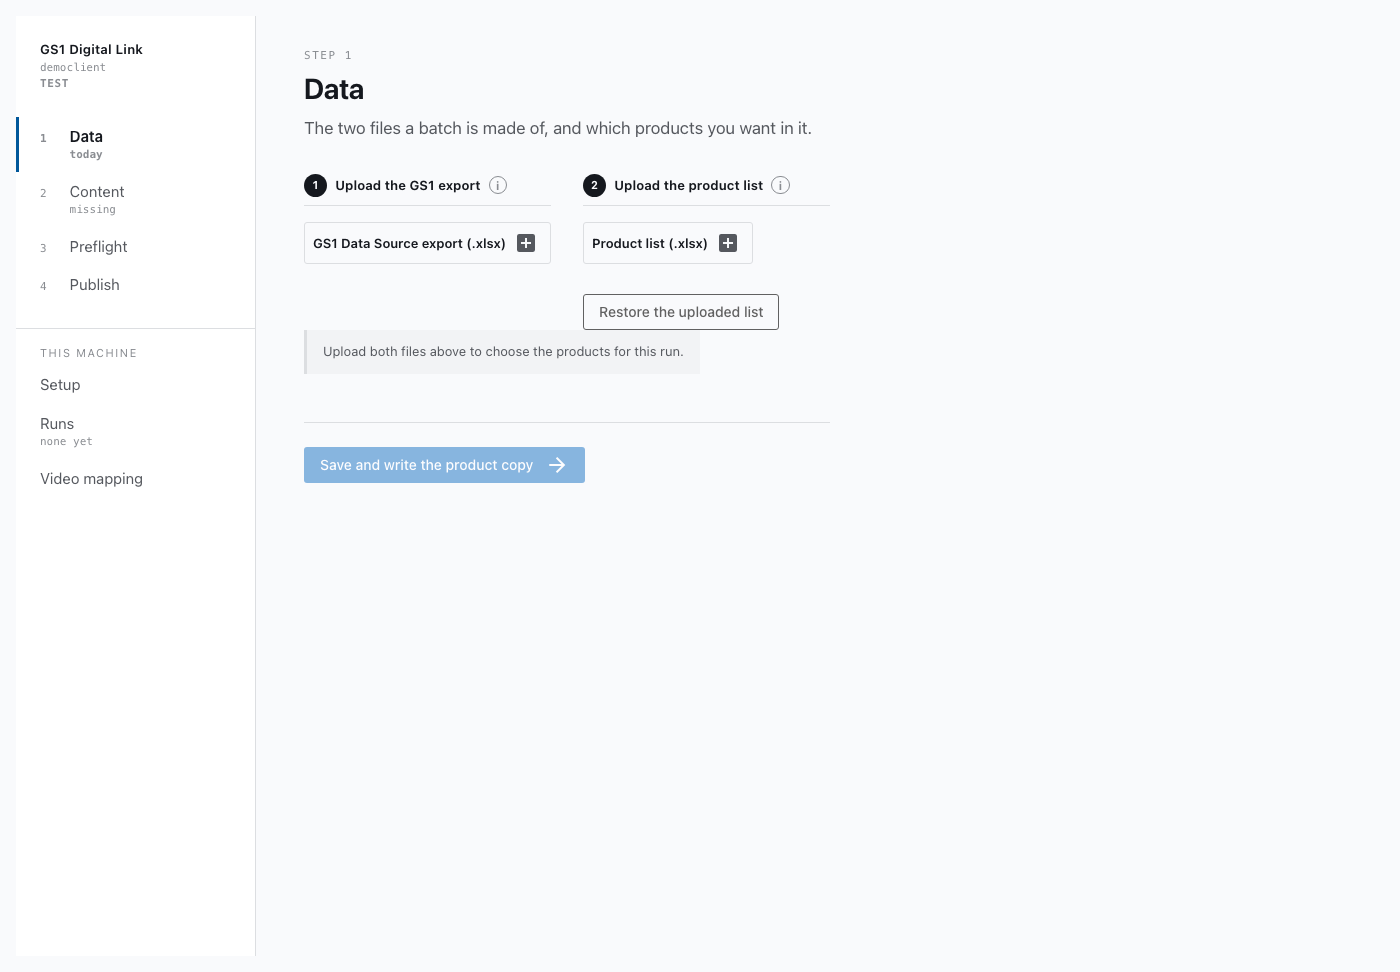
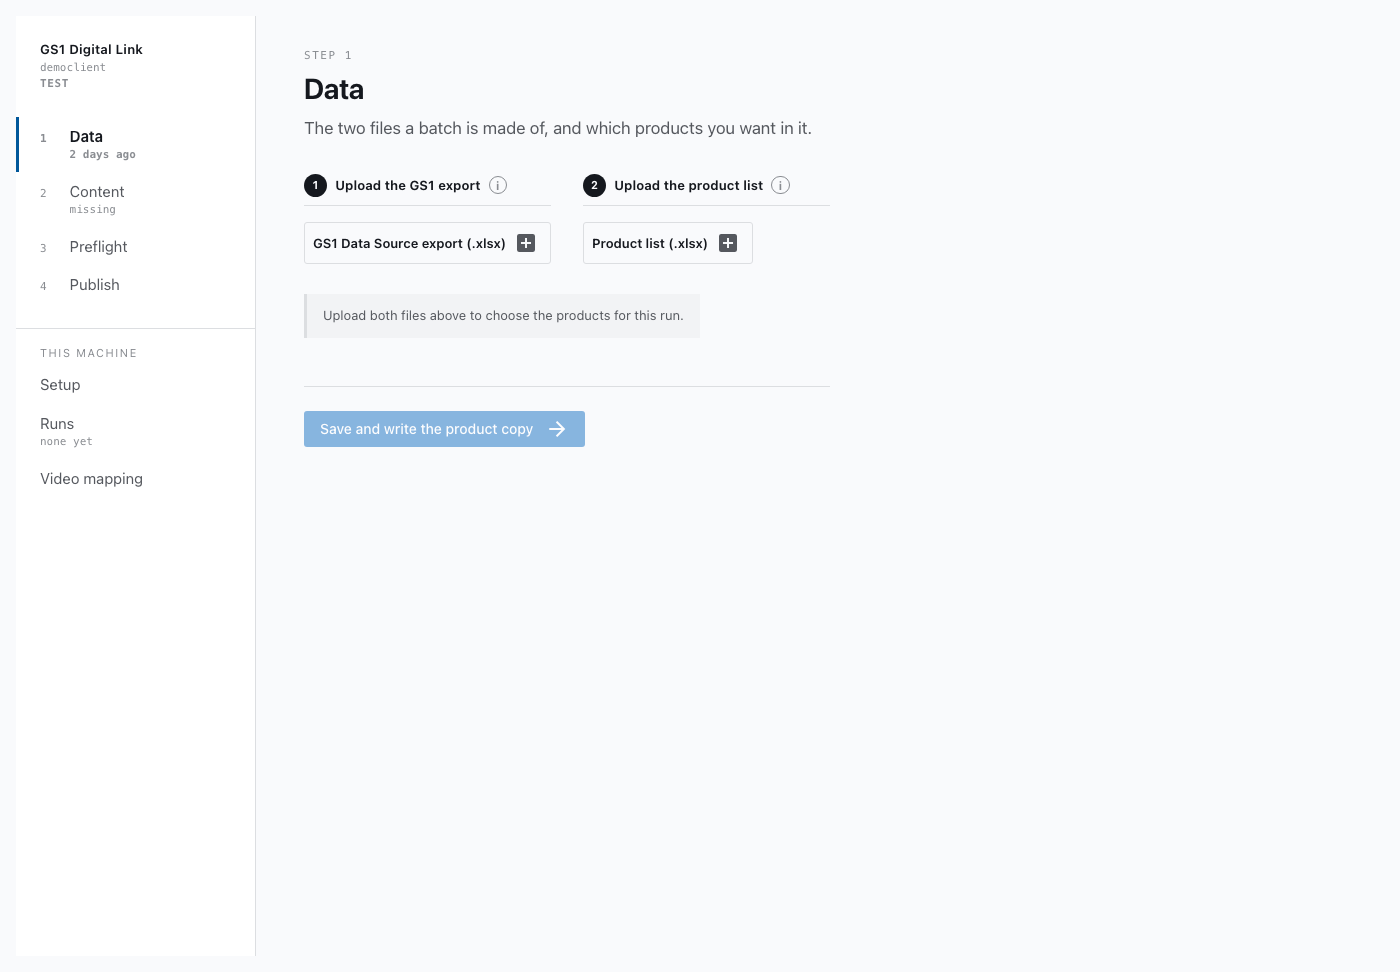
feat(data): remove Restore — uploading the list again is the undo
A batch already requires both uploads, so the way back from a bad selection is the
step the screen insists on anyway: upload the list again. A button that exists to
avoid a step nothing lets you skip is a second way to do one thing.

It also removes an asymmetry that would have grown into a trap. The list's Restore
went **towards** the upload — `process-list.source.xlsx` → the control file, undoing
edits the screen had made. An export "Restore" could only mean the opposite,
`products.bak.xlsx` → the current file, undoing the *upload itself*, because nothing
edits an export after it lands. Two buttons a few centimetres apart, both saying
Restore, pointing in opposite directions, is the one-word-two-meanings shape this
codebase has produced three times already. Now neither exists.

`process-list.source.xlsx` stays and its docstring says why: it is what
`scripts/report_scope_result.py` reads to name the rows the operator deselected,
which no other file records. It was never the thing deciding what gets written.

**Said plainly rather than buried:** the inverted tick box now carries two of its
four mitigations. The *Remove selected rows* wording is still deleted and the save
still reports the delta — "2 dropped". The red Save button went when Save became
the Next button, and the one-click way back goes here. What remains is that the
list the operator uploaded is still on their machine, minutes old, and re-uploading
resets every tick.
[…]

Changed region(s): [[0.215, 0.4012, 0.43, 0.4938], [0.215, 0.3086, 0.5529, 0.3704]]

diff --git a/tests/ui/test_process_list_edit.py b/tests/ui/test_process_list_edit.py
@@ -2,8 +2,8 @@
 
 The operator's recurring job, and the one step where the shell writes to a file they authored.
 The properties worth asserting are the ones that make that safe: other columns survive, the
-previous version survives, the file they *uploaded* survives every save after it, and an empty
-result is refused.
+previous version survives, the file they *uploaded* survives every save after it — the per-run
+result sheet reads it to name the rows they dropped — and an empty result is refused.
 """
 
 from __future__ import annotations
@@ -16,7 +16,7 @@ import pytest
 from lib.config import ProcessListConfig
 from lib.errors import ProcessListError
 from lib.process_list import load_process_list
-from ui.process_list_edit import archive, archive_path, read_sheet, restore, save_sheet
+from ui.process_list_edit import archive, archive_path, read_sheet, save_sheet
 
 GTIN_A = "8713195007359"
 GTIN_B = "8713195007360"
@@ -193,7 +193,11 @@ def test_a_header_below_row_one_reads_on_screen_too(tmp_path: Path) -> None:
 
 
 def test_the_archive_sits_beside_the_control_file_and_is_not_the_backup(tmp_path: Path) -> None:
-    """A collision would make Restore hand back the last pruned save, not the uploaded list."""
+    """A collision would leave the archive holding the last pruned save, not the uploaded list.
+
+    The result sheet reads the archive to name the rows the operator dropped, so a collision would
+    have it name the wrong ones — silently, and in a file that goes to the client.
+    """
     # Arrange
     control = tmp_path / "process-list.xlsx"
 
@@ -247,25 +251,6 @@ def test_an_upload_with_no_gtins_is_refused(tmp_path: Path) -> None:
     assert not control.exists()
 
 
-def test_restore_undoes_a_deselection(tmp_path: Path) -> None:
-    """The whole reason deselection is safe: the worst case is one click."""
-    # Arrange
-    source = _write(tmp_path / "upload", [["1079", GTIN_A, "keep"], ["1080", GTIN_B, "drop"]])
-    control = tmp_path / "input" / "process-list.xlsx"
-    archive(_config(control), source.read_bytes())
-    save_sheet(read_sheet(_config(control)).keeping({0}))
-    assert load_process_list(_config(control)) == frozenset({f"0{GTIN_A}"})
-
-    # Act
-    backup = restore(_config(control))
-
-    # Assert
-    assert load_process_list(_config(control)) == frozenset({f"0{GTIN_A}", f"0{GTIN_B}"})
-    assert read_sheet(_config(backup)).rows == [["1079", GTIN_A, "keep"]], (
-        "the prune is recoverable"
-    )
-
-
 def test_the_archive_survives_saves_that_overwrite_the_backup(tmp_path: Path) -> None:
     """``.bak`` holds the previous save, so after two saves the uploaded list is only here."""
     # Arrange
@@ -285,18 +270,9 @@ def test_the_archive_survives_saves_that_overwrite_the_backup(tmp_path: Path) ->
         ["1", GTIN_A, "a"],
         ["2", GTIN_B, "b"],
     ], "the backup is one save old"
-    restore(_config(control))
-    assert len(read_sheet(_config(control)).rows) == 3, "the upload is still all three"
-
-
-def test_restore_with_no_archive_raises(tmp_path: Path) -> None:
-    """Doing nothing under a success message is the failure mode this project designs against."""
-    # Arrange
-    control = _write(tmp_path, [["1079", GTIN_A, "Drain saver"]])
-
-    # Act / Assert
-    with pytest.raises(ProcessListError, match="no uploaded scope list to restore"):
-        restore(_config(control))
+    assert len(read_sheet(_config(archive_path(control))).rows) == 3, (
+        "the upload is still all three"
+    )
 
 
 # --- What the saved file is like to open --------------------------------------

diff --git a/ui/pages/data.py b/ui/pages/data.py
@@ -24,7 +24,7 @@ table, above the rest, with its own count.
 
 **A row is selected to keep it.** The previous version of this screen had the opposite verb — a
 tick meant *remove this* — so no control here may carry the old wording, the save reports the
-delta rather than the end state, and Restore puts the uploaded list back in one click.
+delta rather than the end state, and a mis-tick is undone by uploading the list again.
 """
 
 from __future__ import annotations
@@ -225,7 +225,8 @@ def _scope_list(cfg: Any, arrived: Callable[[str], None]) -> None:
             "meaning — the tool reads no other column and interprets no cell value — so you "
             "prepare a batch by ticking rows below, and your own columns are kept exactly as they "
             f"are. It is saved as {cfg.process_list.path}, and your upload is kept beside it as "
-            f"{process_list_edit.archive_path(control).name}, which is what Restore puts back. "
+            f"{process_list_edit.archive_path(control).name}, which is what the per-run result "
+            "sheet reads to name the rows you dropped. "
             "That path is fixed in clients.yml and has no command-line override, so a list saved "
             "anywhere else is invisible to the tool."
         ),
@@ -245,21 +246,6 @@ def _scope_list(cfg: Any, arrived: Callable[[str], None]) -> None:
             return f"Installed. Your upload is kept as {kept.name}."
 
         theme.upload("Product list (.xlsx)", receive, busy="Checking the list…")
-
-        def restore() -> None:
-            try:
-                backup = process_list_edit.restore(cfg.process_list)
-            except (OSError, ProcessListError) as exc:
-                theme.notify_problem(str(exc))
-                return
-            arrived("list")
-            theme.notify_ok(f"The uploaded list is back. The list you had is at {backup.name}")
-
-        # Beside the upload rather than under the table, which is where it used to be: it restores
-        # *the uploaded file*, so this is where an operator looks for it — and it is the undo for a
-        # save, which now happens on the way out of the screen. Without it the inverted tick box
-        # has no one-click way back.
-        theme.quiet_action("Restore the uploaded list", restore)
 
 
 def _scope_grid(cfg: Any, cid: str, commit: dict[str, Callable[[], bool]]) -> None:
@@ -312,9 +298,10 @@ def _scope_grid(cfg: Any, cid: str, commit: dict[str, Callable[[], bool]]) -> No
             "Every row arrives ticked, and a run processes the ticked ones. Untick a product to "
             "leave it out of this batch, then save. The filter changes only what you can see, "
             "never what is ticked, so you can search, untick, clear the filter, and nothing you "
-            "did is lost. Saving keeps the previous version beside the file, and Restore puts back "
-            "the list you uploaded — the button for that is beside the upload in step 2, which is "
-            "what makes unticking safe to get wrong. Nothing is "
+            "did is lost. Saving keeps the previous version of the file beside it, and if the "
+            "ticks come out wrong the way back is to upload the list again — every batch starts "
+            "with both "
+            "files anyway. Nothing is "
             "published here; this only settles which products are in the batch. A product with no "
             "client-confirmed video in every language is marked in the Video column and a run "
             "skips it, reporting success (media.restrict_to_mapped_gtins)."

diff --git a/ui/process_list_edit.py b/ui/process_list_edit.py
@@ -14,10 +14,11 @@ So this module keeps four properties:
   a web form, and losing a pruned list means redoing the pruning.
 * **The upload is kept too, separately.** ``{name}.source.xlsx`` holds the file the operator sent,
   byte for byte, from the moment it arrives. ``.bak`` only ever holds *the previous save*, so
-  after two saves the original is gone; the archive is what makes :func:`restore` mean "the list I
-  uploaded" rather than "whatever it looked like last time". It is read for Restore and for
-  display. **It never decides what gets written** — a design that derived the control file from it
-  would put a wrong join between the operator and their own list, silently.
+  after two saves the original is gone. It is what ``scripts/report_scope_result.py`` reads to
+  name the rows the operator deselected, which is a fact no other file records. **It never decides
+  what gets written** — a design that derived the control file from it would put a wrong join
+  between the operator and their own list, silently. It is not an undo: the way back from a bad
+  selection is to upload the list again, which every batch requires in any case.
 * **An empty result is refused.** ``load_process_list`` already treats zero GTINs as an error
   rather than an empty run, for the reason this project keeps designing against: an empty plan
   and a successful-looking no-op are indistinguishable. Saving an empty file here would just move
@@ -43,7 +44,6 @@ __all__ = [
     "archive",
     "archive_path",
     "read_sheet",
-    "restore",
     "save_sheet",
 ]
 
@@ -67,8 +67,8 @@ def archive_path(control: Path) -> Path:
     """Where the uploaded list is kept, beside the control file it was installed as.
 
     Deliberately **not** ``{name}.bak.xlsx``. The backup holds the state before the most recent
-    save; if the two collided, Restore would hand back the last pruned version rather than the
-    list the operator uploaded — which is the one thing Restore exists to do.
+    save, so if the two collided the archive would hold the last pruned version rather than the
+    list the operator uploaded — and the result sheet would name the wrong rows as dropped.
     """
     return control.with_suffix(f".source{control.suffix}")
 
@@ -114,32 +114,6 @@ def archive(config: ProcessListConfig, data: bytes) -> Path:
     kept.write_bytes(data)
     control.write_bytes(data)
     return kept
-
-
-def restore(config: ProcessListConfig) -> Path:
-    """Put the uploaded list back, keeping the current control file beside it. Returns the backup.
-
-    What makes deselection reversible. Without it a row removed on screen survives only in
-    ``.bak``, which the next save overwrites.
-
-    Raises:
-        ProcessListError: If no upload has been archived — there is nothing to restore, and
-            silently doing nothing under a success message is the failure mode this project
-            keeps designing against.
-    """
-    control = Path(config.path)
-    kept = archive_path(control)
-    if not kept.exists():
-        raise ProcessListError(
-            f"there is no uploaded scope list to restore: {kept} does not exist. It is written "
-            f"when a list is uploaded, so a list that arrived any other way has no original here."
-        )
-
-    backup = control.with_suffix(f".bak{control.suffix}")
-    if control.exists():
-        backup.write_bytes(control.read_bytes())
-    control.write_bytes(kept.read_bytes())
-    return backup
 
 
 def save_sheet(sheet: ProcessListSheet) -> Path:

diff --git a/docs/ui-operator-shell.md b/docs/ui-operator-shell.md
@@ -160,9 +160,15 @@ than the same frame: the save reports the *delta* — "2 dropped" — and that s
 thing left on this screen that contradicts an operator who still thinks a tick means *remove*.
 Notifications do not survive a page change, so navigating immediately would make the write silent.
 
-The count line, the held-video line and the Restore button that used to sit between the table and
-the report are gone. Restore moved **beside the upload in step 2** — it restores the uploaded file,
-so that is where it belongs, and without it the inverted tick box has no one-click way back. The
+The count line, the held-video line and the Save and Restore buttons that used to sit between the
+table and the report are all gone. **Restore is gone entirely**, and that is a deliberate trade: a
+batch already requires both uploads, so uploading the list again *is* the undo, and a button whose
+job is to avoid a step the screen insists on anyway is a second way to do one thing.
+
+It leaves the inverted tick box with two of its four mitigations rather than four — the old
+wording is deleted and the save still reports the delta; the red Save button and the one-click way
+back both went with the restructure. The remaining protection is that the file the operator
+uploaded is still on their machine, minutes old. The
 video consequence moved into step 3's ⓘ; the per-row mark still carries the fact. `theme.section(step=…, explain=…)` and `theme.subhead` own that shape, so a screen
 cannot invent a second one.
 
@@ -211,8 +217,8 @@ thing twice.
 
 **`process-list.source.xlsx` is the upload, kept byte for byte.** `.bak.xlsx` holds only *the
 previous save*, so after two saves the operator's original is gone; the archive is what lets
-**Restore the uploaded list** mean "the list I sent" rather than "whatever it looked like last
-time". It is read for Restore and for display. **It never decides what gets written** — a design
+`process-list.source.xlsx` hold "the list I sent" rather than "whatever it looked like last
+time". It is read by the per-run result sheet, to name the rows the operator dropped. **It never decides what gets written** — a design
 that derived the control file from it would put a wrong join between the operator and their own
 list, silently.
 
@@ -246,7 +252,8 @@ it means *keep this row*. An operator with the old habit ticks what they want go
 exactly those. Four mitigations, all cheap and all required: the *Remove selected rows* button is
 deleted outright so no control carries the old wording; Save reports the **delta** ("Saved 36
 row(s). 2 dropped") rather than the end state, which is the sentence that contradicts them;
-`theme.action(danger=True)` keeps it red; and Restore makes the worst case one click.
+`theme.action(danger=True)` kept it red until Save became the Next button; and the worst case is
+undone by uploading the list again, which the screen requires in any case.
 
 `pagination=0` on the table is **mandatory, not cosmetic**. With pagination on, Quasar's header
 checkbox selects *this page*, and a save would quietly drop every row the operator never scrolled

diff --git a/docs/consultant-onboarding.md b/docs/consultant-onboarding.md
@@ -367,8 +367,7 @@ For your *first* batch, do it in this order regardless of what the guide says is
 
 1. **Cut the scope list down to two or three products.** Not the whole batch. Data → untick the
    rows you do not want → **Save the list**. **A tick means keep**, and every row arrives ticked.
-   You do not need to keep a copy first: **Restore the uploaded list** puts back what you
-   uploaded, which is how you undo this at step 6.
+   Keep the full list to hand — uploading it again is how you undo this at step 6.
 2. **Run in `pages` mode.** Pages are reversible; GS1 records are not. Take the dry run seriously —
    read the output before pressing Proceed.
 3. **Look at the actual pages on the live site.** Not the run log: the pages. Open each one in a
@@ -377,7 +376,7 @@ For your *first* batch, do it in this order regardless of what the guide says is
 4. **Only then run `links`** for the same products, which registers the barcodes permanently.
 5. **Check a barcode resolves**: open `https://id.gs1.org/01/{the 14-digit barcode}` in a browser
    and confirm it lands on the right page.
-6. **Restore the uploaded list** on Data, and repeat at full size.
+6. **Upload the full list again** on Data, and repeat at full size.
 
 > **If you publish pages now and register the links later, do them close together.** A `pages`-only
 > run updates the website but leaves the GS1 record holding whatever title it had before, and

diff --git a/CHANGELOG.md b/CHANGELOG.md
@@ -48,8 +48,10 @@ and this project adheres to [Semantic Versioning](https://semver.org/spec/v2.0.0
   are one intention, and two buttons is how the second gets missed. It navigates on a 1.6 s beat,
   because the save reports the delta — "2 dropped" — and that is the only sentence left that
   contradicts an operator who still thinks a tick means *remove*; notifications do not survive a
-  page change. The count line, the held-video line and the after-a-run line are gone; Restore moved
-  beside the upload it restores.
+  page change. The count line, the held-video line, the after-a-run line and the Save and Restore
+  buttons are all gone: a batch already requires both uploads, so uploading the list again *is* the
+  undo, and a button that avoids a step the screen insists on anyway is a second way to do one
+  thing. It leaves the inverted tick box with two of its four mitigations.
 
   **The data-quality report builds itself, folded away.** It was a button, which made a fresh
   worklist something the operator had to think of asking for — and so the thing most likely to be

diff --git a/docs/operator-install.md b/docs/operator-install.md
@@ -85,8 +85,8 @@ three have an upload control**, so nothing needs copying into a folder by hand:
 - **The product scope list (`process-list.xlsx`)** — uploaded on **Data**, in its own section
   below the export. It is read before it is installed, so a file that will not open is refused
   while the list you were using is still there. Your upload is kept beside it as
-  `process-list.source.xlsx`, and **Restore the uploaded list** puts it back — which is what makes
-  unticking rows safe to get wrong.
+  `process-list.source.xlsx`, which the per-run result sheet reads to name the rows you dropped.
+  Getting the ticks wrong is undone by uploading the list again.
 - **`generation_results.json`** — uploaded on **Content**. Written fresh for each batch, not
   accumulated: a newer one replaces the run's copy rather than adding to it.
 

diff --git a/docs/operator-guide.md b/docs/operator-guide.md
@@ -108,8 +108,8 @@ always sits on the page in a coloured band.
    Use the filter box to find a product; filtering changes only what you can see, never what is
    ticked. The table's own footer says how many are selected.
 
-   Got it wrong? **Restore the uploaded list**, beside the upload in step 2, puts back the file you
-   uploaded in one click.
+   Got the ticks wrong? Upload the list again in step 2 — that resets every tick. There is no
+   undo button, because every batch starts with both uploads anyway.
 
 **Data quality** at the bottom is folded away. It rebuilds every time you open this screen, so
 opening the fold always shows a current report — what is missing or wrong in the spreadsheet
